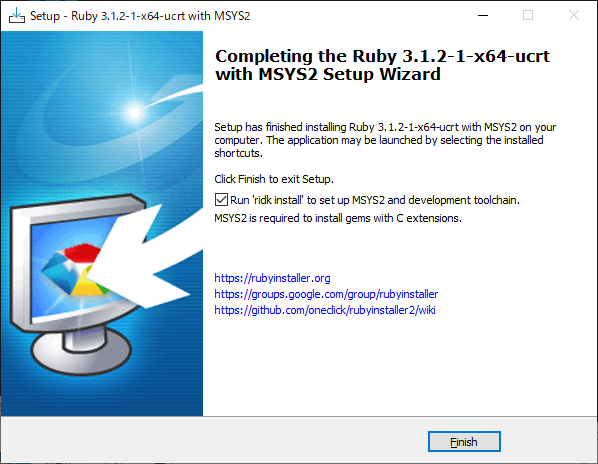
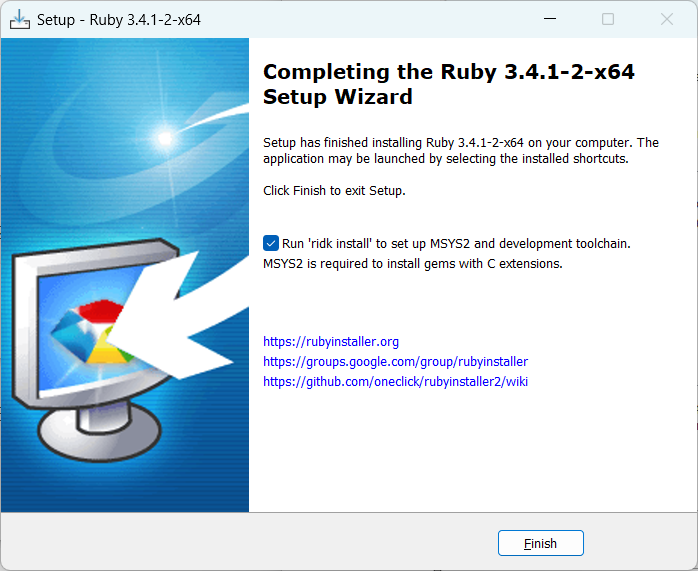
Windows Ruby/Rails のバージョン更新、 RubyInstallerのキャプチャ更新

diff --git a/_pages/install/windows.md b/_pages/install/windows.md
@@ -22,7 +22,7 @@ If you run into any problems during this guide, check the [Possible errors] sect
 We'll start by installing Ruby, the primary programming language used during the workshop. This can be done using the RubyInstaller described below.
 
 - Download the [RubyInstaller](https://rubyinstaller.org/downloads/) for Windows.
-  - [Direct link to Ruby 3.2.3 installer with Devkit](https://github.com/oneclick/rubyinstaller2/releases/download/RubyInstaller-3.2.3-1/rubyinstaller-devkit-3.2.3-1-x64.exe) for 64-bit architecture.
+  - [Direct link to Ruby 3.4.1 installer with Devkit](https://github.com/oneclick/rubyinstaller2/releases/download/RubyInstaller-3.4.1-2/rubyinstaller-devkit-3.4.1-2-x64.exe) for 64-bit architecture.
 - Run the installer. Click through the installer using all the default options.
   - Make sure the "Run 'ridk install'" checkmark is checked partway through the installer before continuing.
   - When prompted with the "MSYS2" installer, enter `1` and press Enter.
@@ -41,7 +41,7 @@ We'll start by installing Ruby, the primary programming language used during the
 Rubyのインストールが終了すると、以下の画面が表示されるので、'Finish'ボタンをクリックします。
 ![RubyInstaller Install Finish](/images/windows_install/rubyinstaller_install_finish.png "rubyinstaller install finish")
 
-コマンドプロンプトが立ち上がってMSYS2のインストールに進みますのでデフォルトの選択肢(何も入力せずにエンター)を選びます。
+コマンドプロンプトが立ち上がってMSYS2のインストールに進みますので `1` を選びます。
 
 ![RubyInstaller MSYS2 install](/images/windows_install/rubyinstaller_msys2_install.png "rubyinstaller msys2 install")
 
@@ -99,7 +99,7 @@ Let's check whether Rails was installed successfully. Open the Windows Command P
 rails --version
 {% endhighlight %}
 
-This should output `Rails 7.1.3.2`, but a higher version is also good.
+This should output `Rails 8.0.1`, but a higher version is also good.
 
 _If you run into any problems during this step, check the [Possible errors] section for possible solutions._
 

diff --git a/_posts-jp/install/windows-wsl.md b/_posts-jp/install/windows-wsl.md
@@ -110,8 +110,8 @@ git clone https://github.com/rbenv/ruby-build.git "$(rbenv root)"/plugins/ruby-b
 Bashウィンドウで以下のコマンドを実行してください。
 
 {% highlight sh %}
-rbenv install 3.2.3
-rbenv global 3.2.3
+rbenv install 3.4.1
+rbenv global 3.4.1
 {% endhighlight %}
 
 作業完了後に、以下のコマンドを実行してください。
@@ -123,7 +123,7 @@ ruby -v
 以下のように、インストールされたRubyのバージョンが表示されればOKです。
 
 {% highlight sh %}
-ruby 3.2.3 (2024-01-18 revision 52bb2ac0a6) [x86_64-linux]
+ruby 3.4.1 (2024-12-25 revision 48d4efcb85) +PRISM [x86_64-linux]
 {% endhighlight %}
 
 ### *3.* Railsのインストール
@@ -143,7 +143,7 @@ rails -v
 以下のように、インストールされたRailsのバージョンが表示されればOKです（バージョンの番号は違うかもしれません）。
 
 {% highlight sh %}
-Rails 7.1.3.2
+Rails 8.0.1
 {% endhighlight %}
 
 <hr />
